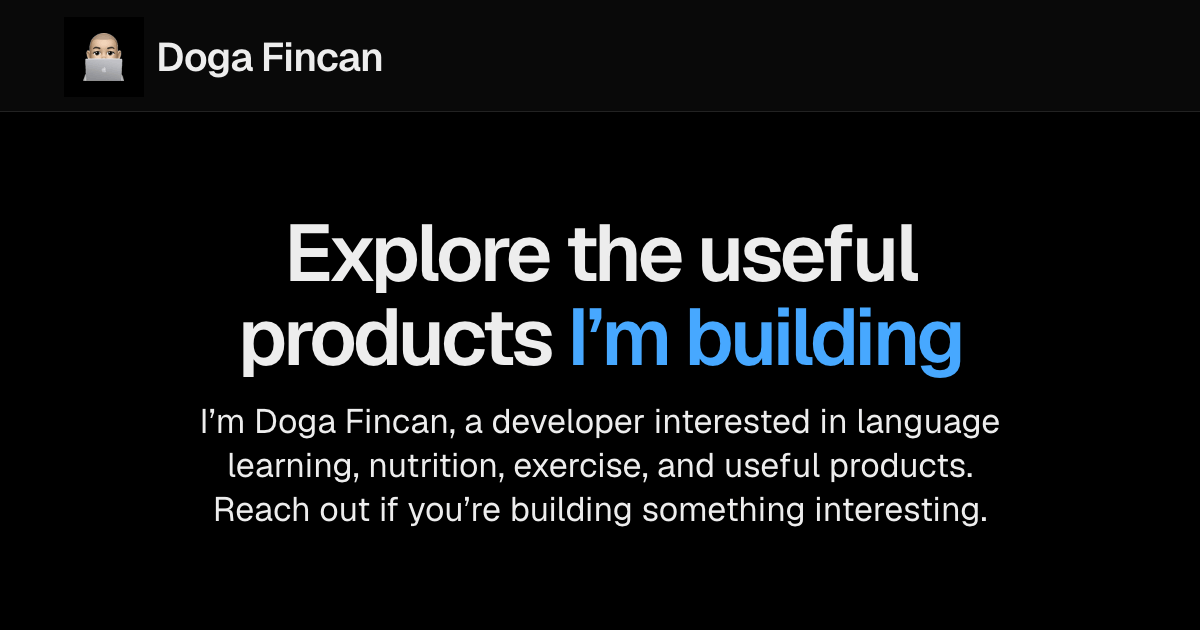
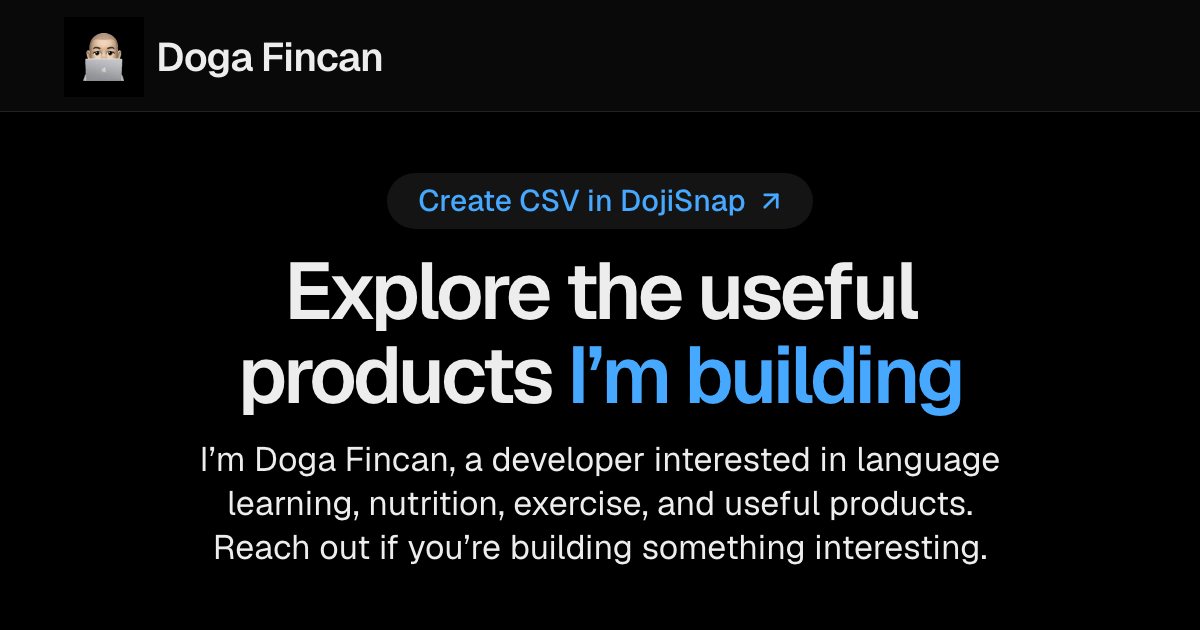
Align migration lock with Doji guardrails

Changed region(s): [[0.1542, 0.3016, 0.8325, 0.9048]]

diff --git a/src/components/app-header.tsx b/src/components/app-header.tsx
@@ -1,5 +1,7 @@
 import type { ReactNode } from "react";
+import { ArrowUpRight } from "lucide-react";
 
+import { Badge } from "@/components/ui/badge";
 import { WalletControl } from "@/components/wallet-control";
 import { buttonVariants } from "@/components/ui/button";
 import { dojiTypography } from "@/lib/doji-ui";
@@ -10,6 +12,7 @@ const HEADER_LOGO_DARK = "/app-logo-120-navbar-dark.png";
 const HEADER_LOGO_LIGHT_SRCSET = "/app-logo-120-navbar-light.png 120w";
 
 export const PORTFOLIO_APP_NAME = "Doga Fincan";
+export const DOJISNAP_URL = "https://dojisnap.xyz";
 export const PORTFOLIO_MAIN_CLASS_NAME =
   "app-shell mx-auto flex w-full min-w-0 max-w-full flex-1 flex-col gap-8 sm:max-w-6xl lg:gap-12";
 
@@ -80,12 +83,12 @@ export function PortfolioNavbar({ variant = "app" }: { variant?: "app" | "social
     >
       <nav
         aria-label={`${PORTFOLIO_APP_NAME} navigation`}
-        className="app-chrome-content mx-auto flex min-h-14 w-full max-w-6xl items-center py-2 sm:py-0"
+        className="app-chrome-content mx-auto flex h-full w-full max-w-6xl items-center"
         data-slot="app-navbar-content-rail"
       >
         <a
           aria-label={`${PORTFOLIO_APP_NAME} home`}
-          className="control-target flex h-11 min-w-0 items-center gap-0.5 rounded-xl text-card-foreground outline-none transition-colors hover:text-foreground focus-visible:ring-3 focus-visible:ring-focus-ring"
+          className="control-target ml-5 flex h-11 min-w-0 items-center gap-0.5 rounded-xl text-card-foreground outline-none transition-colors hover:text-foreground focus-visible:ring-3 focus-visible:ring-focus-ring"
           data-slot="app-navbar-brand"
           href="/"
         >
@@ -161,6 +164,25 @@ export function PortfolioPageHeader({
           social ? "contents" : "w-full gap-2 px-6 xl:gap-4",
         )}
       >
+        <Badge
+          className={
+            social
+              ? "h-14 gap-2.5 px-[30px] text-[30px] leading-[38px] has-data-[icon=inline-end]:pr-[26px] [&>svg]:size-[30px]!"
+              : "expanded-control-target relative overflow-visible"
+          }
+          variant="header-info"
+          render={
+            <a
+              href={DOJISNAP_URL}
+              target="_blank"
+              rel="noreferrer"
+              aria-label="Create CSV in DojiSnap (opens in a new tab)"
+            />
+          }
+        >
+          Create CSV in DojiSnap
+          <ArrowUpRight data-icon="inline-end" data-lucide="dojisnap-link" aria-hidden="true" />
+        </Badge>
         <h1
           className={cn(
             social ? "max-w-[900px]" : "max-w-4xl",

diff --git a/src/components/portfolio-home.test.tsx b/src/components/portfolio-home.test.tsx
@@ -34,6 +34,7 @@ describe("PortfolioHome", () => {
     );
     const main = container.querySelector("main");
     const navbar = container.querySelector('[data-slot="app-navbar"]');
+    const navbarContent = container.querySelector('[data-slot="app-navbar-content-rail"]');
     const headerActions = container.querySelector('[data-slot="app-header-actions"]');
     const brand = screen.getByRole("link", { name: "Doga Fincan home" });
     const logo = brand.querySelector("img");
@@ -53,6 +54,7 @@ describe("PortfolioHome", () => {
     expect(subtitle.className).toContain("sm:text-lg");
     expect(navbar?.className).toContain("sticky");
     expect(navbar?.className).toContain("bg-card");
+    expect(navbarContent?.className).toContain("h-full");
     expect(navbar?.querySelector('[data-slot="app-header-actions"]')).toBeNull();
     expect(headerActions?.className).toContain("flex-col");
     expect(headerActions?.className).toContain("sm:flex-row");
@@ -63,6 +65,7 @@ describe("PortfolioHome", () => {
     ).toBeTruthy();
     expect(brand.className).toContain("control-target");
     expect(brand.className).toContain("gap-0.5");
+    expect(brand.className).toContain("ml-5");
     expect(brand.textContent).toContain("Doga Fincan");
     expect(logo?.className).toContain("translate-y-px");
     expect(logo?.className).not.toContain("rounded");
@@ -81,6 +84,12 @@ describe("PortfolioHome", () => {
       "/submit",
     );
     expect(headerActions?.parentElement?.querySelector("[data-chain-migration-alert]")).toBeNull();
+    const discovery = screen.getByRole("link", {
+      name: "Create CSV in DojiSnap (opens in a new tab)",
+    });
+    expect(discovery.getAttribute("href")).toBe("https://dojisnap.xyz");
+    expect(discovery.getAttribute("target")).toBe("_blank");
+    expect(discovery.className).toContain("expanded-control-target");
     expect(footer?.className).toContain("bg-card");
     expect(footer?.textContent).toContain("Copyright Doga Fincan");
 

diff --git a/src/lib/public-delivery.test.ts b/src/lib/public-delivery.test.ts
@@ -1,0 +1,31 @@
+import { readFileSync } from "node:fs";
+
+import { describe, expect, it } from "vite-plus/test";
+
+const config = readFileSync("wrangler.assets.jsonc", "utf8");
+const packageJson = JSON.parse(readFileSync("package.json", "utf8")) as {
+  scripts: Record<string, string>;
+};
+
+describe("public delivery hardening", () => {
+  it("deploys the migration-locked public app as assets only", () => {
+    expect(config).toContain('"directory": "./dist/client"');
+    expect(config).toContain('"not_found_handling": "404-page"');
+    for (const forbidden of [
+      "main",
+      "binding",
+      "run_worker_first",
+      "services",
+      "ratelimits",
+      "observability",
+      "triggers",
+    ]) {
+      expect(config).not.toMatch(new RegExp(`"${forbidden}"\\s*:`));
+    }
+  });
+
+  it("names the assets-only config from every public deploy command", () => {
+    expect(packageJson.scripts.deploy).toContain("--config wrangler.assets.jsonc");
+    expect(packageJson.scripts["deploy:dry-run"]).toContain("--config wrangler.assets.jsonc");
+  });
+});

diff --git a/src/components/og-image-preview.test.tsx b/src/components/og-image-preview.test.tsx
@@ -22,6 +22,7 @@ describe("OgImagePreview", () => {
     const title = safeRegion?.querySelector('[data-slot="app-header-title"]');
     const accent = safeRegion?.querySelector('[data-slot="app-header-title-accent"]');
     const subtitle = safeRegion?.querySelector('[data-slot="app-header-subtitle"]');
+    const discovery = safeRegion?.querySelector('[data-slot="badge"]');
 
     expect(preview?.getAttribute("style")).toContain("color-scheme: dark");
     expect(preview?.className).toContain("h-[630px]");
@@ -55,5 +56,7 @@ describe("OgImagePreview", () => {
     expect(subtitle?.textContent).toBe(PORTFOLIO_PAGE_SUBTITLE);
     expect(subtitle?.className).toContain(dojiTypography.socialSubtitle);
     expect(subtitle?.className).toContain("max-w-[860px]");
+    expect(discovery?.textContent).toContain("Create CSV in DojiSnap");
+    expect(discovery?.className).toContain("h-14");
   });
 });

diff --git a/src/styles.test.ts b/src/styles.test.ts
@@ -391,7 +391,7 @@ describe("global styles", () => {
     expect(appShellBlock).toContain("var(--portfolio-app-shell-padding-block-start)");
     expect(appShellBlock).toContain("var(--portfolio-app-shell-padding-block-end)");
     expect(appShellBlock).toContain("var(--portfolio-app-shell-padding-inline)");
-    expect(navbarBlock).toContain("min-height: calc(3.5rem + env(safe-area-inset-top, 0px));");
+    expect(navbarBlock).toContain("height: calc(3.5rem + env(safe-area-inset-top, 0px));");
     expect(navbarBlock).toContain("padding-top: env(safe-area-inset-top, 0px);");
     expect(footerBlock).toContain("min-height: calc(3.5rem + env(safe-area-inset-bottom, 0px));");
     expect(footerBlock).toContain("padding-bottom: env(safe-area-inset-bottom, 0px);");

diff --git a/src/styles.css b/src/styles.css
@@ -413,7 +413,7 @@
 }
 
 .app-navbar {
-  min-height: calc(3.5rem + env(safe-area-inset-top, 0px));
+  height: calc(3.5rem + env(safe-area-inset-top, 0px));
   padding-top: env(safe-area-inset-top, 0px);
 }
 

diff --git a/DESIGN.md b/DESIGN.md
@@ -1,7 +1,7 @@
 # Portfolio Design Contract
 
 Doji Design System version: 1.0.1-draft
-Doji Design System source revision: `7f5718e29bf7da92f9fb7b5c1c10fec5ffcdf19f` (committed draft; release tag pending)
+Doji Design System source revision: `dd65c985c9aa2da0e3fcb454f329a9894dd7d429` (committed draft; release tag pending)
 Doji Design System adoption: migrating
 
 This file is Portfolio's local UI contract. The canonical shared source is the
@@ -61,6 +61,10 @@ runtime package and no automated cross-repository mutation.
   rate limiting, service bindings, external providers, or mutations. Existing
   envelope, gateway, wallet, payment, and recovery implementation remains
   preserved behind this temporary boundary.
+- Production deploys `wrangler.assets.jsonc`, which has no Worker script or
+  runtime binding. Dynamic URLs receive the static 404 boundary without paid
+  Worker execution. The retained server boundary keeps the migration 503 as
+  defense in depth for deliberate backend tests or later deployment.
 
 ## Product Character
 
@@ -155,6 +159,11 @@ runtime package and no automated cross-repository mutation.
   `npx vp run generate:identity` regenerates the complete public identity family
   from `scripts/assets/app-logo-source.png`. The centered shared source geometry
   keeps the navbar subject's visible bottom aligned with the initial `D`.
+- The page navbar is an explicit 56px border box with a full-height content
+  rail and a 20px brand inset. Every primary page header places the compact
+  **Create CSV in DojiSnap** header-information badge above its title, linking
+  to `https://dojisnap.xyz` in a new tab with a 44px hit area around its 24px
+  visual.
 - The navbar contains identity and genuine navigation only. Primary page-header
   actions always read **Connect wallet** / **Disconnect wallet** and
   **Submit project** immediately below the subtitle. They stack in one bounded

diff --git a/PRD.md b/PRD.md
@@ -71,10 +71,11 @@ Keep the site simple, fast, and consistent with the sibling apps.
 | Migration state | Sui-dependent frontend and server flows temporarily fail closed      |
 | Analytics       | Not specified                                                        |
 
-TanStack Start prerenders ordinary routes. Cloudflare Static Assets serves
-anonymous pages and the Doji 404 without invoking the Worker. Only three exact
-same-origin project-submission paths run the public Worker and forward through a
-narrow Registry service binding.
+TanStack Start prerenders ordinary routes. During the migration lock,
+`wrangler.assets.jsonc` serves anonymous pages and the Doji 404 without a
+Worker script or runtime binding. Three exact same-origin project-submission
+paths remain in the dormant backend contract and later forward through a narrow
+Registry service binding.
 
 ## 3. Problem statement
 
@@ -357,8 +358,9 @@ destination, abuse prevention, privacy, and retention.
 - Do not place a migration Alert below **Connect wallet**, a project/asset
   selector trigger, or a shared action cluster containing either control. Those
   controls explain the migration only inside the Empty surface they open.
-- Return one canonical no-store JSON `503` response from all public dynamic API
-  and broad server-function entry points before envelope processing, limiters,
+- Production dynamic URLs receive the static 404 boundary without paid Worker
+  execution. Retained dynamic API and broad server-function handlers return one
+  canonical no-store JSON `503` response before envelope processing, limiters,
   service bindings, providers, or mutations.
 - Preserve the existing Sui frontend and backend implementation for the later
   Robinhood Chain migration; this slice does not remove or rewrite it.

diff --git a/README.md b/README.md
@@ -91,8 +91,10 @@ The `/submit` feature retains Mysten dApp Kit and the Sui SDK behind the
 interaction boundary for later migration work. During the temporary
 Sui-to-Robinhood Chain lockout, the app does not mount that wallet runtime even
 after **Connect wallet** is activated. Anonymous portfolio and form loads remain
-prerendered static assets. The public Worker owns no storage or Sui provider
-binding. Its preserved dynamic surface is a same-origin, rate-limited,
+prerendered static assets. Production uses `wrangler.assets.jsonc`, which has no
+Worker script or runtime binding; dynamic URLs receive the static 404 boundary
+without paid Worker execution. The preserved backend Worker owns no storage or
+Sui provider binding. Its dormant dynamic surface is a same-origin, rate-limited,
 three-route proxy to the central Registry service, currently preceded by one
 temporary fail-closed migration response.
 
@@ -129,9 +131,9 @@ the repository for later migration rather than being deleted.
 - Portfolio has no project or asset selector trigger, so a selector migration
   Drawer is not applicable. A future locked selector would explain the migration
   only in its Empty surface, without an Alert below its trigger.
-- Every public dynamic API and broad server-function entry point returns the
+- Retained public dynamic API and broad server-function handlers return the
   same no-store JSON `503` migration response before envelope processing, rate
-  limits, service bindings, providers, or mutations.
+  limits, service bindings, providers, or mutations when tested or deliberately deployed.
 
 ## Product Constraints
 

diff --git a/AGENTS.md b/AGENTS.md
@@ -64,6 +64,10 @@ Keep `README.md` and `AGENTS.md` aligned when durable project rules change. Keep
 - Keep wallet and Sui code out of the initial static route chunk. Load it only
   after an explicit wallet interaction. Do not add Sui providers, storage,
   Durable Objects, KV, D1, R2, queues, or signing keys to the public Worker.
+- While the migration lock is active, production deploys the assets-only
+  `wrangler.assets.jsonc`, with no Worker entrypoint or runtime binding.
+  Retained backend handlers remain testable as defense in depth, but public
+  deploys and dry-runs must not use `dist/server/wrangler.json`.
 - Project fields and images remain in page memory until the fixed Registry
   payment succeeds. Do not persist drafts or make validation/prefill API calls.
 - A payment challenge is allowed only after a digest exists and must bind the

diff --git a/docs/production-runbook.md b/docs/production-runbook.md
@@ -36,7 +36,7 @@ npx vp test
 npx vp run generate:og
 npx vp build
 npx vp run cf-typegen
-npx wrangler deploy --dry-run --config dist/server/wrangler.json
+npm run deploy:dry-run
 npm audit
 git diff --check
 ```
